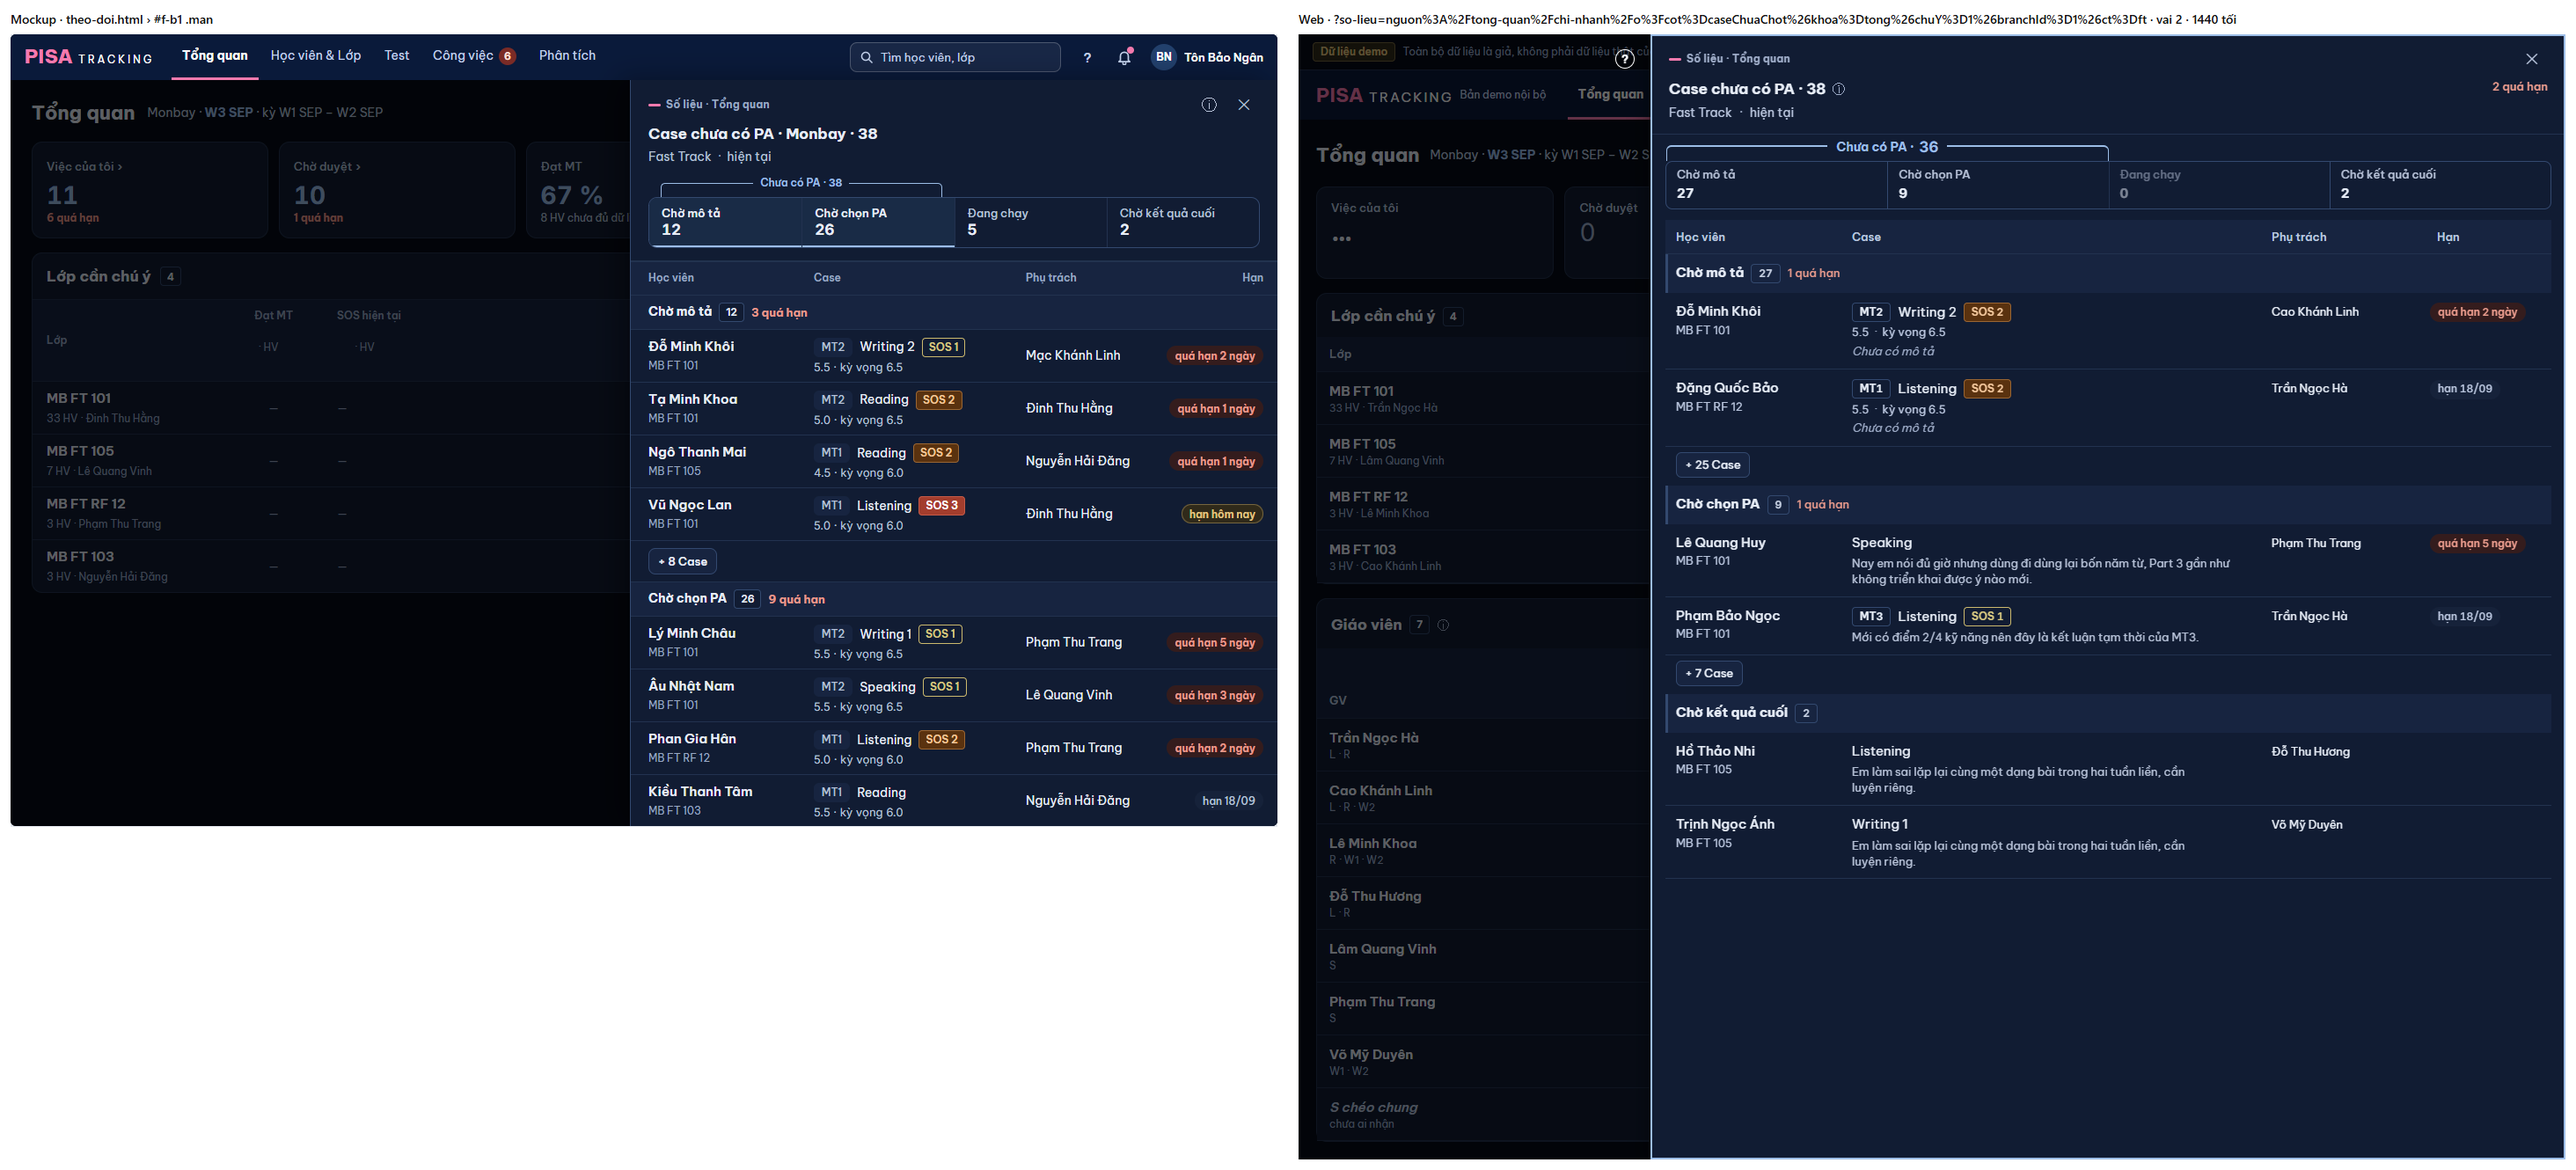
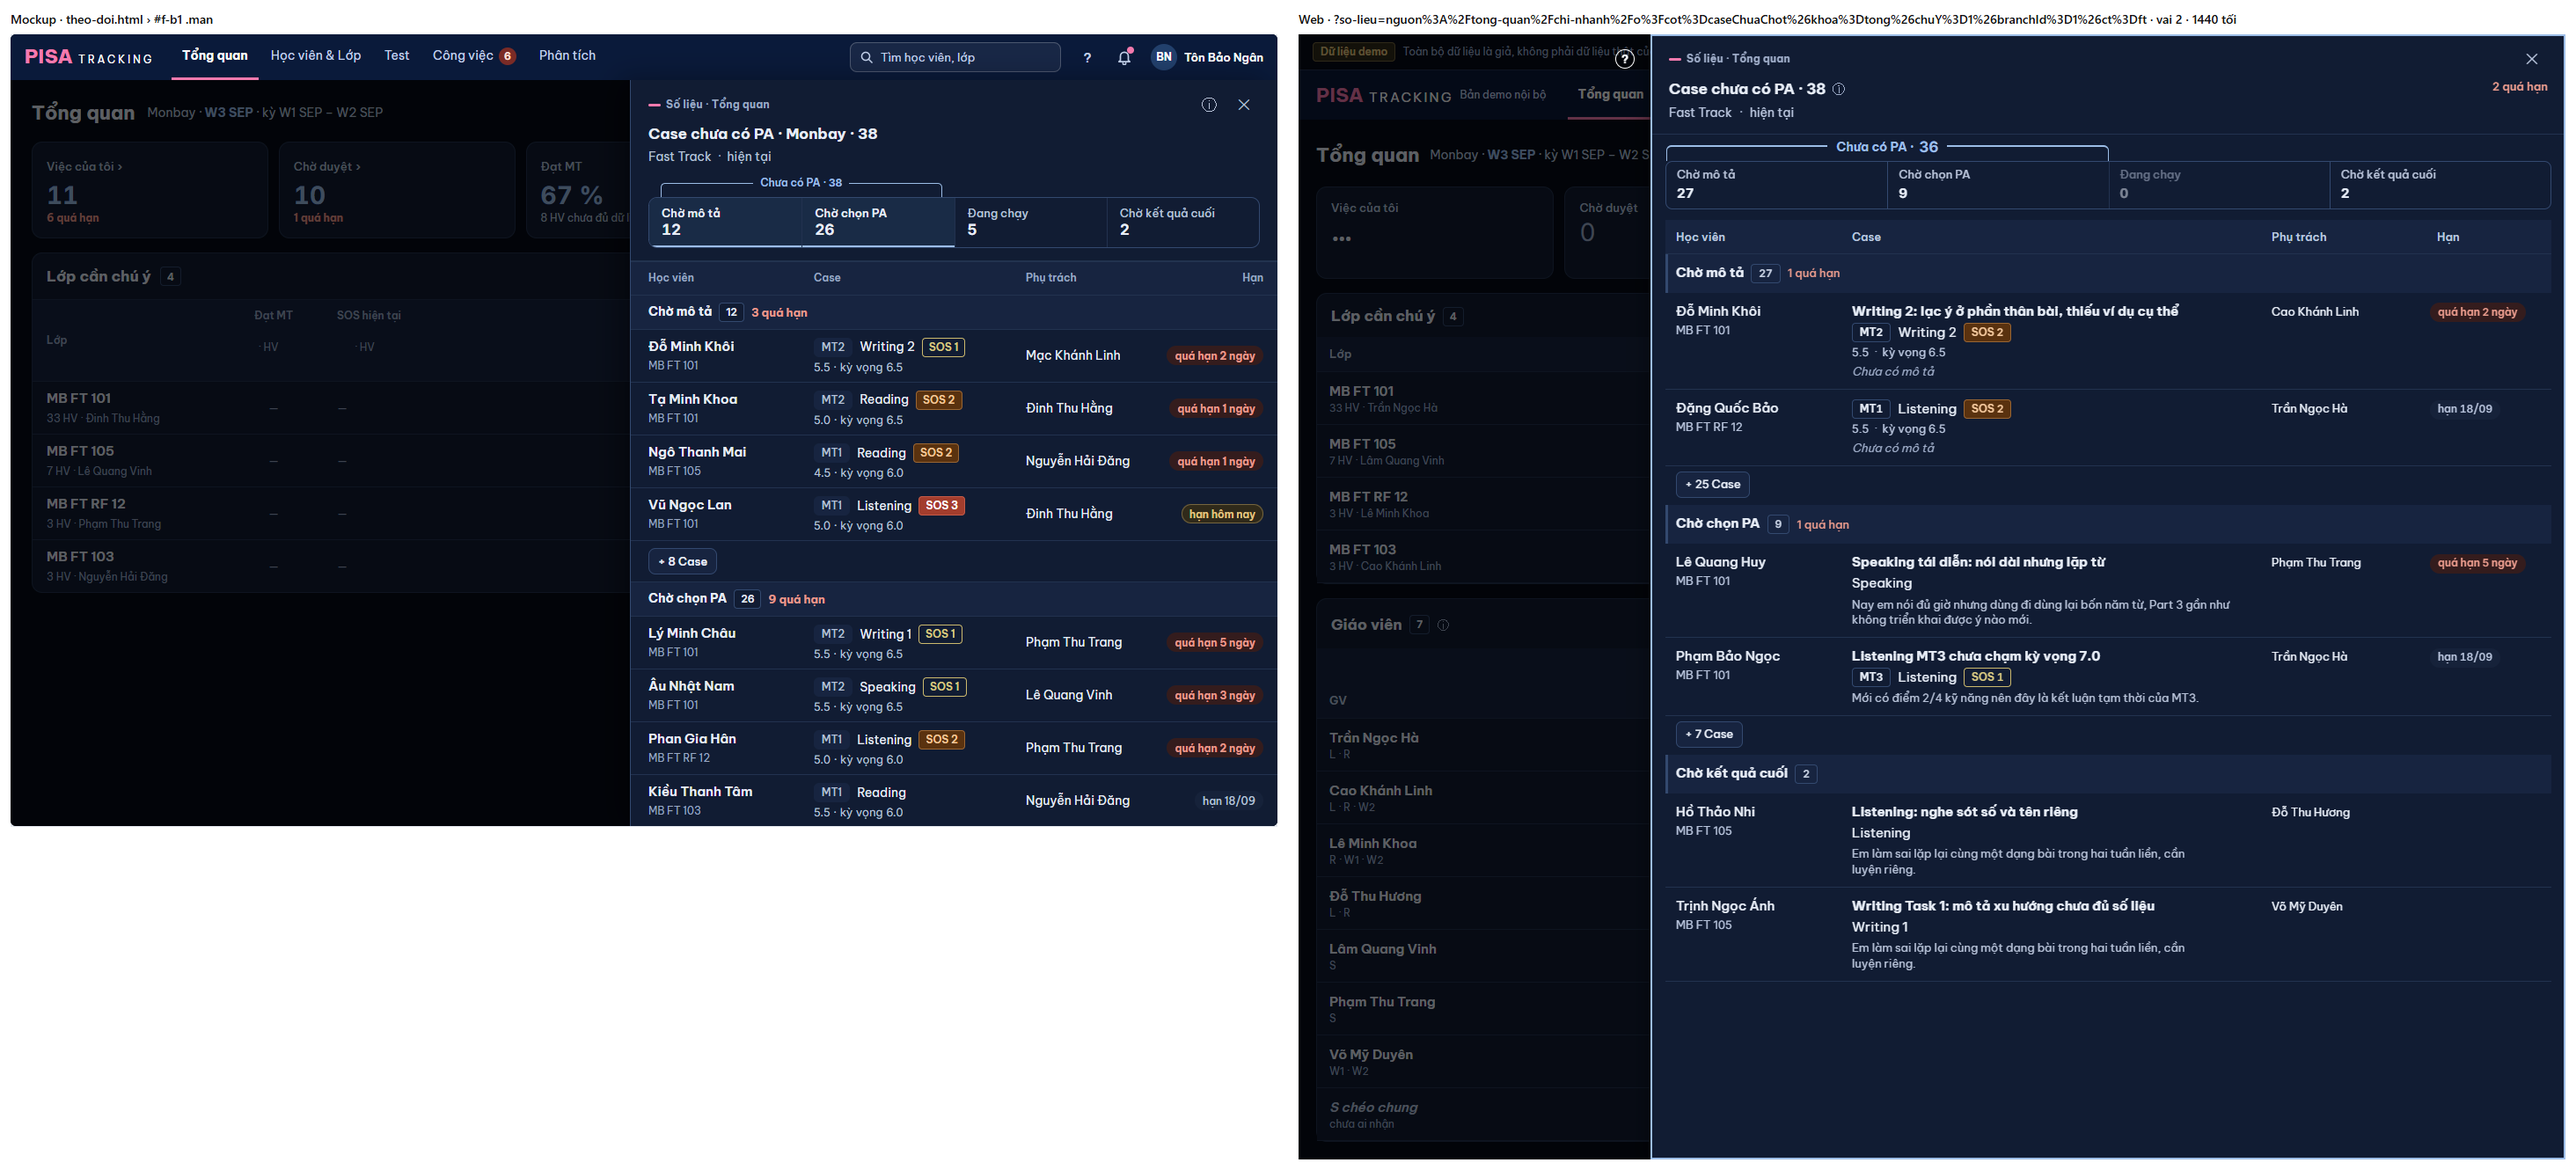
GD-21: đề mục Case chỉ hiện khi GV đã sửa tên (deMucRieng) + phép kiểm; ảnh cặp B1 / B6

diff --git a/server/src/worklist/metrics.ts b/server/src/worklist/metrics.ts
@@ -4,7 +4,7 @@ import { t } from '../../../shared/i18n/index.ts';
 /** dd/mm — hạn cụ thể trên dòng panel. */
 const ngayNgan = (iso: string) => `${iso.slice(8, 10)}/${iso.slice(5, 7)}`;
 import { HV_DANG_HOC_SQL } from '../students/tamDung.ts';
-import { ATTEMPT_KIND_SHORT, addDaysIso, khoaBai, nhanBai,chuViecChotLoTrinh, daiDienNhomBoTro, baiId, duongCase, duongDotTest, nhanLoaiXuLy, nhanTuanGhiKetQua, PERMISSIONS, VIOLATION_CATEGORY_LABEL, tachTenMoTa, metricById, nhanDot, tachBaiId, tenMon, tenMonNgan, tuanLich, vietMaLuot, CHU_THEM_PA, NHOM_CASE_CHUA_CHOT, buocCase, type BuocCase, type NhomCaseChuaChot, type AttemptKind, type DeadlineKind, type ChiSo, type ChuongTrinh, type DiemHv } from '../../../shared/domain/index.ts';
+import { ATTEMPT_KIND_SHORT, addDaysIso, khoaBai, nhanBai,chuViecChotLoTrinh, daiDienNhomBoTro, baiId, duongCase, duongDotTest, nhanLoaiXuLy, nhanTuanGhiKetQua, PERMISSIONS, VIOLATION_CATEGORY_LABEL, tachTenMoTa, metricById, nhanDot, tachBaiId, tenMon, tenMonNgan, tuanLich, vietMaLuot, CHU_THEM_PA, caseTopicLabel, NHOM_CASE_CHUA_CHOT, buocCase, type BuocCase, type NhomCaseChuaChot, type AttemptKind, type DeadlineKind, type ChiSo, type ChuongTrinh, type DiemHv } from '../../../shared/domain/index.ts';
 import { demoToday, getConfig } from '../demoConfig.ts';
 import { KHOA_PR_RESET_HAN_CASE } from '../migrate/prResetHanCase.ts';
 import { bangLop, can, classScopeSql, isCoreTeacherOf, scopeFor, type Principal, type Scope } from '../permissions.ts';
@@ -23,6 +23,21 @@ function phanRaCaseChuaChot(ids: number[], xl: ReturnType<typeof xuLyCaseMany>):
   return out;
 }
 /** Nhóm của từng Case chưa chốt PA (cùng luật phân rã) — Cần bạn quyết ghi nhãn dòng bằng hàm này. `xl` = `xuLyCaseMany` của chính các Case. */
+/**
+ * GD-21 (chủ SP 15/11): đề mục Case chỉ hiện khi GV ĐÃ SỬA tên. Case SOS / Progress tự sinh lưu `title` = phần giữa mặc định (`{kỹ năng} không đạt`, tên môn dài / ngắn / theo chương trình)
+ * hoặc để trống — khớp một trong các dạng mặc định đó (hoặc chính tên kỹ năng) thì KHÔNG phải tên riêng. Hàm thuần, 0 câu: dùng mã môn + chương trình đã có trong câu của dòng.
+ */
+export function deMucRieng(c: { title?: string | null; mon?: string | null; topic?: string | null; ct?: string | null }): string | null {
+  const own = (c.title ?? '').trim();
+  if (!own) return null;
+  const mon = c.mon ?? c.topic ?? '';
+  const mac = new Set<string>();
+  for (const ct of [c.ct ?? null, null]) {
+    for (const ten of [tenMon(ct, mon), tenMonNgan(ct, mon), caseTopicLabel(mon, ct)]) { mac.add(ten); mac.add(`${ten} không đạt`); }
+  }
+  return mac.has(own) ? null : own;
+}
+
 export function nhomCaseChuaChot(ids: number[], xl: ReturnType<typeof xuLyCaseMany>): Map<number, NhomCaseChuaChot> {
   const coPa = ids.filter((id) => xl.get(id)?.k === 'dang-lam' && xl.get(id)!.coPa);
   const choDuyet = new Set<number>();
@@ -146,6 +161,8 @@ export type MetricRow = {
   luot?: string | null;
   /** GD-21: mô tả Case (`sos_cases.summary`, đã nạp cùng câu) — hàng Case ghi dưới khuôn MTn · kỹ năng · SOS. */
   moTa?: string | null;
+  /** GD-21: đề mục Case — chỉ có khi GV đã sửa tên (`deMucRieng`). */
+  deMuc?: string | null;
   /** 6c-2 (#632 XM-1): dòng Case — điểm kỹ năng ở mốc mở / lặp Case gần nhất (band, kỳ vọng lượt đó, "MT2" / "Progress Test"). */
   diemCase?: { so: number; kyVong: number | null; luot: string | null; nhan?: string | null } | null;
   /** R1-EN-2: dòng thi thật — ngày dd/mm; web ghép "Thi thật {ngay}" bằng t() thay `ngCanh`. */
@@ -284,6 +301,7 @@ export function rowsFor(unit: ChiSo['donVi'], ids: number[], metricId?: string, 
           em: r.sid ? { id: r.sid, ten: r.full_name } : null, lop: r.lop ?? null, ngCanh: ten,
           viec: v?.viec ?? null, tinhTrang: v?.tinhTrang ?? null, diemCase: diemCase.get(r.id) ?? null, buoc: v?.buoc ?? null,
           sos: r.sos_level > 0 ? { muc: r.sos_level, tam: false } : null, kyNang: r.mon ? tenMon(r.ct ?? null, r.mon).replace(' Task', '') : null,
+          deMuc: deMucRieng({ title: r.title, mon: r.mon, topic: r.topic, ct: r.ct }),
           moTa: r.summary ? String(r.summary) : null,
           luot: r.attempt_kind ? nhanDot(r.attempt_kind, r.attempt_no ?? null) : null,
         });

diff --git a/server/src/tests/prPilotCase.tests.ts b/server/src/tests/prPilotCase.tests.ts
@@ -96,6 +96,16 @@ export async function runPrPilotCaseTests(t: YThucTestKit) {
     assert(/caseTiep\(/.test(sl) && /Case tiếp ›/.test(docSach('web/src/modules/students/NganCase.tsx')), 'không có Case tiếp ›');
   });
 
+  check('GD-21 · đề mục Case chỉ khi GV đã sửa tên: tên mặc định (kỹ năng / "{kỹ năng} không đạt", dài · ngắn) → null; tên riêng → hiện; dòng Case có mô tả + kỹ năng + lượt', async () => {
+    const { deMucRieng, rowsFor } = await import('../worklist/metrics.ts') as any;
+    assert(deMucRieng({ title: null, mon: 'writing', ct: 'ft' }) === null, 'trống phải là null');
+    assert(deMucRieng({ title: 'Writing Task 2 không đạt', mon: 'writing', ct: 'ft' }) === null, 'mặc định dài bị coi là tên riêng');
+    assert(deMucRieng({ title: 'Writing Task 2', mon: 'writing', ct: 'ft' }) === null, 'tên kỹ năng bị coi là tên riêng');
+    assert(deMucRieng({ title: 'Reading: chưa xử lý được dạng True/False/Not Given', mon: 'reading', ct: 'ft' }) === 'Reading: chưa xử lý được dạng True/False/Not Given', 'tên riêng không hiện');
+    const o = oTong(P.mbManager);
+    assert(o.rows.every((x: any) => 'moTa' in x && 'kyNang' in x && 'luot' in x && 'deMuc' in x), 'dòng Case thiếu moTa / kyNang / luot / deMuc');
+  });
+
   check('6b-2 · DESIGN.md: V11 bản M6 + luật Quay lại + luật chữ đầu mục (G14 sửa: vạch nhóm theo bước)', () => {
     const ds = docSach('DESIGN.md');
     assert(/V11[^\n]*M6/.test(ds), 'V11 chưa ghi bản M6');

diff --git a/web/src/ui/SoLieu.tsx b/web/src/ui/SoLieu.tsx
@@ -63,6 +63,7 @@ export type DongSoLieu = {
   kyNang?: string | null;
   luot?: string | null;
   moTa?: string | null;
+  deMuc?: string | null;
   /** 6c-2 (#632 XM-1): dòng Case — điểm kỹ năng ở lượt mở Case (máy chủ `rowsFor('case')`). */
   diemCase?: { so: number; kyVong: number | null; luot: string | null; nhan?: string | null } | null;
   /** UI-HO-SO-GV: dòng kết quả — mốc so, kết luận (tab Chưa đạt · Đạt · Vượt). Điểm từng kỹ năng nay ở `diemHv` (PANEL-MC). */
@@ -427,6 +428,7 @@ export function NganDanhSach({ nguon, tieuDe, dv, data, loading, error, reload, 
     );
     if (k === 'case') return (
       <span className="flex min-w-0 flex-col items-start gap-0.5">
+        {r.deMuc && <span className="text-[15px] font-bold leading-snug text-slate-100">{r.deMuc}</span>}
         <span className="flex min-w-0 max-w-full flex-nowrap items-center gap-x-2">
           {(r.diemCase?.luot ?? r.luot) && <span className={`${CHIP_VUONG} shrink-0`} style={{ borderColor: 'var(--line-strong)' }}>{r.diemCase?.luot ?? r.luot}</span>}
           <span className="min-w-0" title={r.title}>{r.kyNang ?? r.title}</span>
